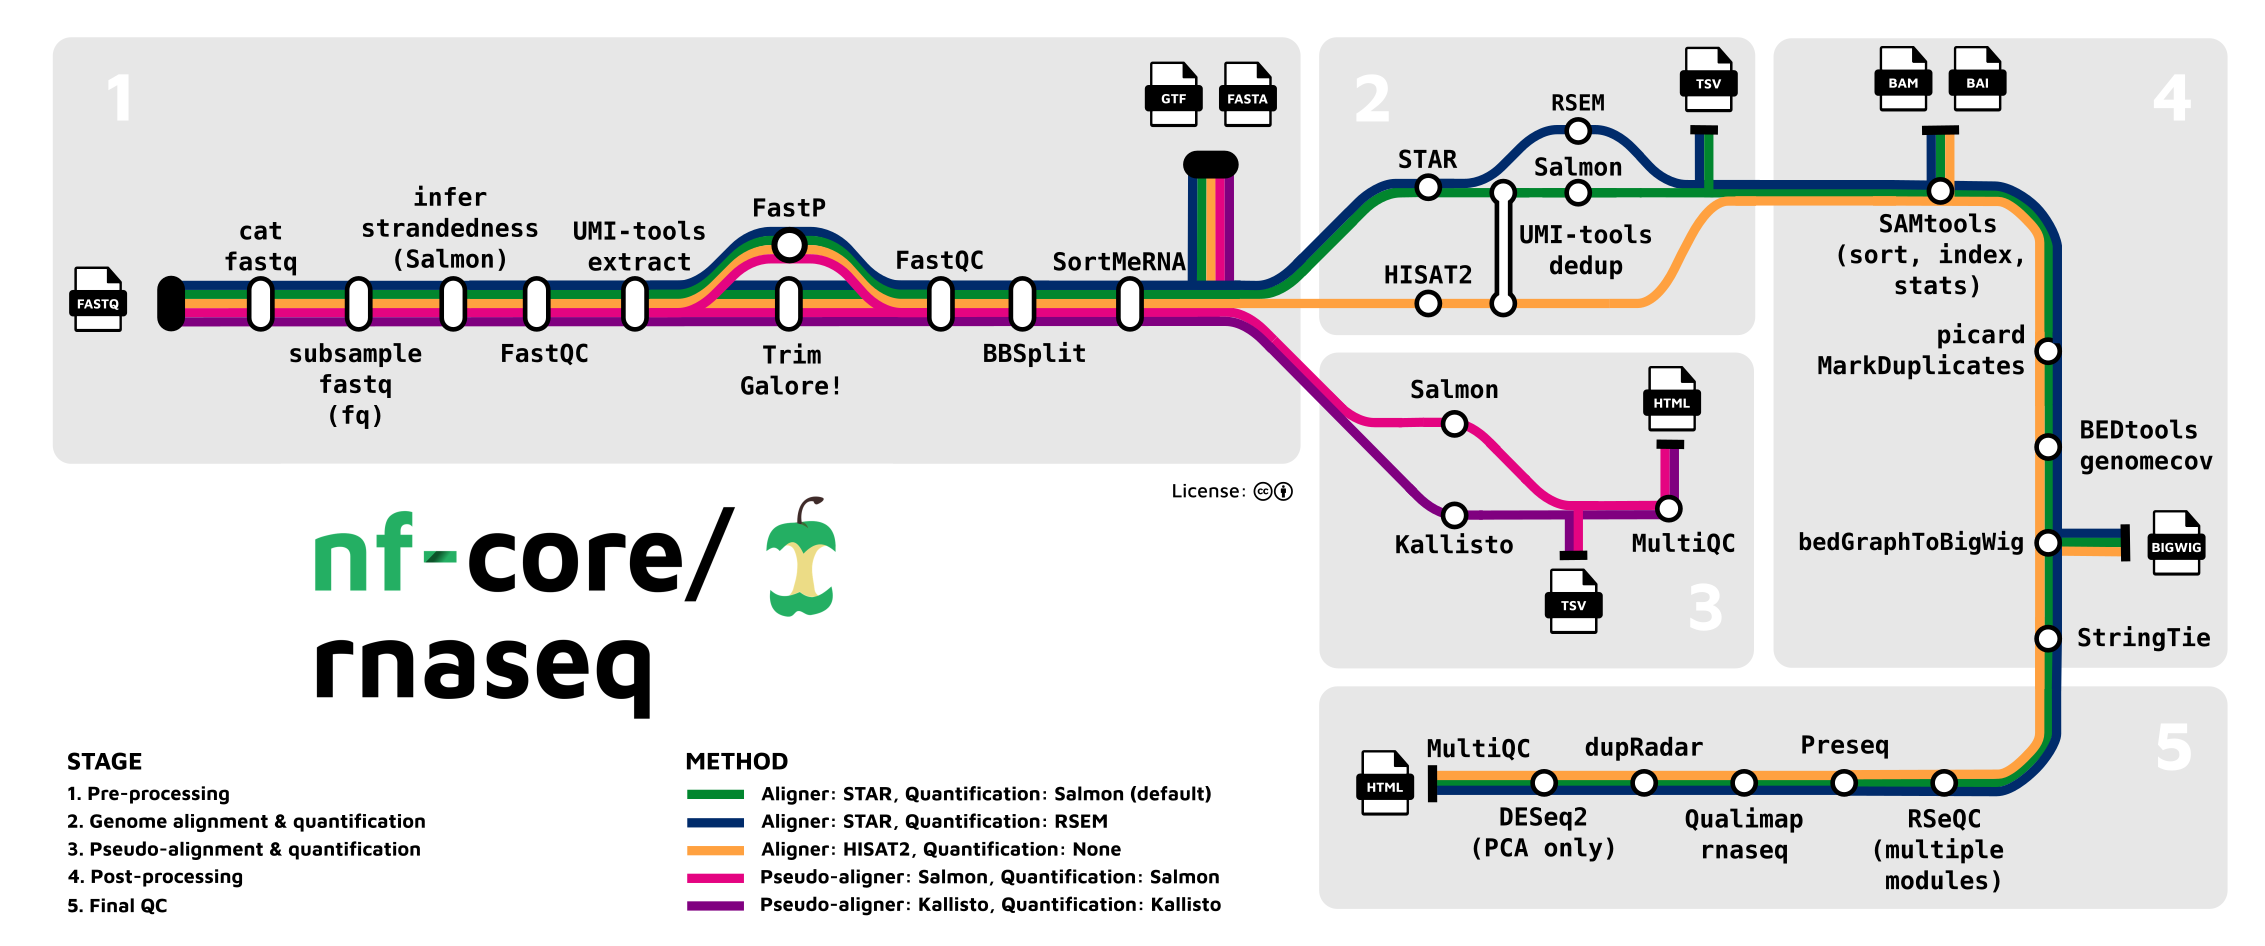
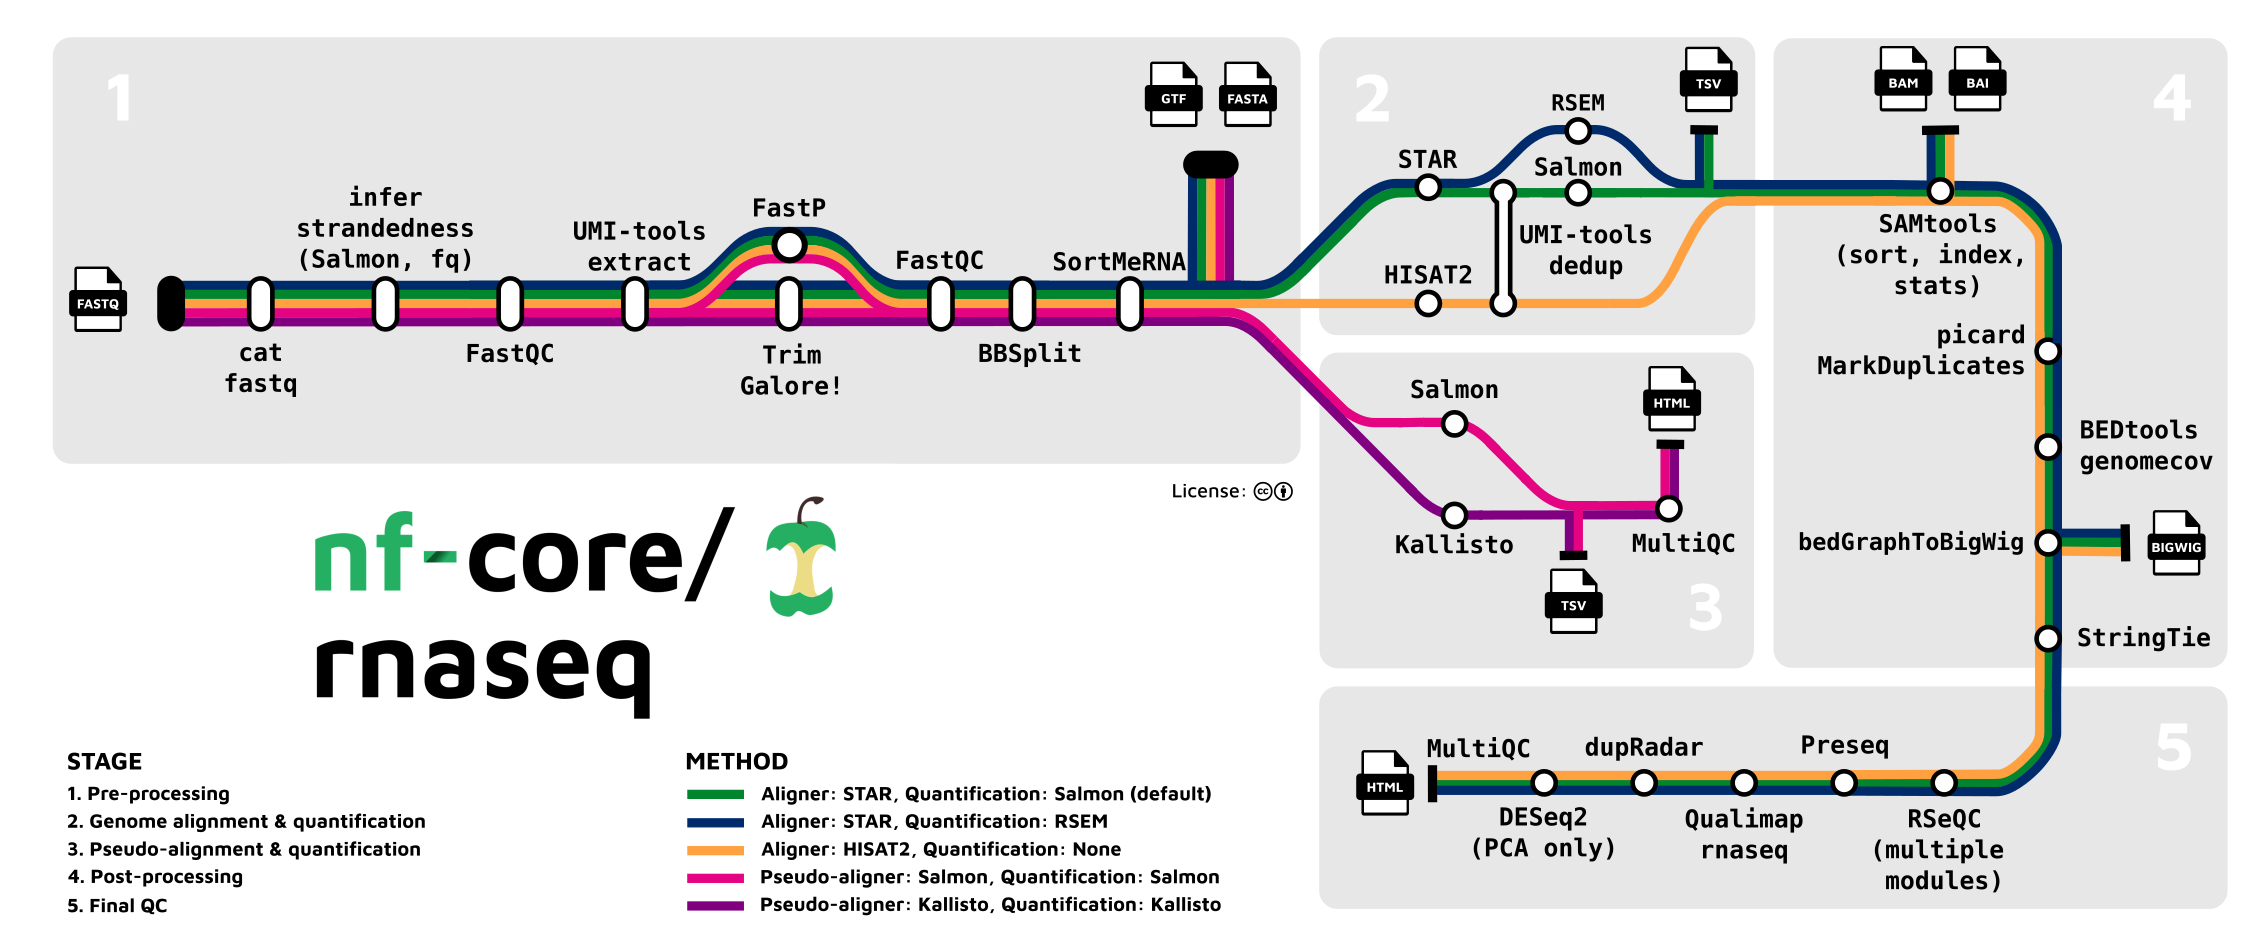
close #1095

Changed region(s): [[0.0927, 0.1839, 0.2781, 0.4598], [0.4327, 0.3372, 0.4945, 0.3985]]

diff --git a/README.md b/README.md
@@ -23,7 +23,7 @@
 ![nf-core/rnaseq metro map](docs/images/nf-core-rnaseq_metro_map_grey.png)
 
 1. Merge re-sequenced FastQ files ([`cat`](http://www.linfo.org/cat.html))
-2. Sub-sample FastQ files and auto-infer strandedness ([`fq`](https://github.com/stjude-rust-labs/fq), [`Salmon`](https://combine-lab.github.io/salmon/))
+2. Auto-infer strandedness by subsampling and pseudoalignment ([`fq`](https://github.com/stjude-rust-labs/fq), [`Salmon`](https://combine-lab.github.io/salmon/))
 3. Read QC ([`FastQC`](https://www.bioinformatics.babraham.ac.uk/projects/fastqc/))
 4. UMI extraction ([`UMI-tools`](https://github.com/CGATOxford/UMI-tools))
 5. Adapter and quality trimming ([`Trim Galore!`](https://www.bioinformatics.babraham.ac.uk/projects/trim_galore/))

diff --git a/CHANGELOG.md b/CHANGELOG.md
@@ -71,6 +71,7 @@ Thank you to everyone else that has contributed by reporting bugs, enhancements 
 - [PR #1297](https://github.com/nf-core/rnaseq/pull/1297) - Important! Template update for nf-core/tools v2.14.1
 - [PR #1302](https://github.com/nf-core/rnaseq/pull/1302) - Add missing files from Tximport processing
 - [PR #1304](https://github.com/nf-core/rnaseq/pull/1304) - Remove redundant gene TPM outputs
+- [PR #1307](https://github.com/nf-core/rnaseq/pull/1307) - Clarify infer strandedness step in subway map and text
 
 ### Parameters
 
